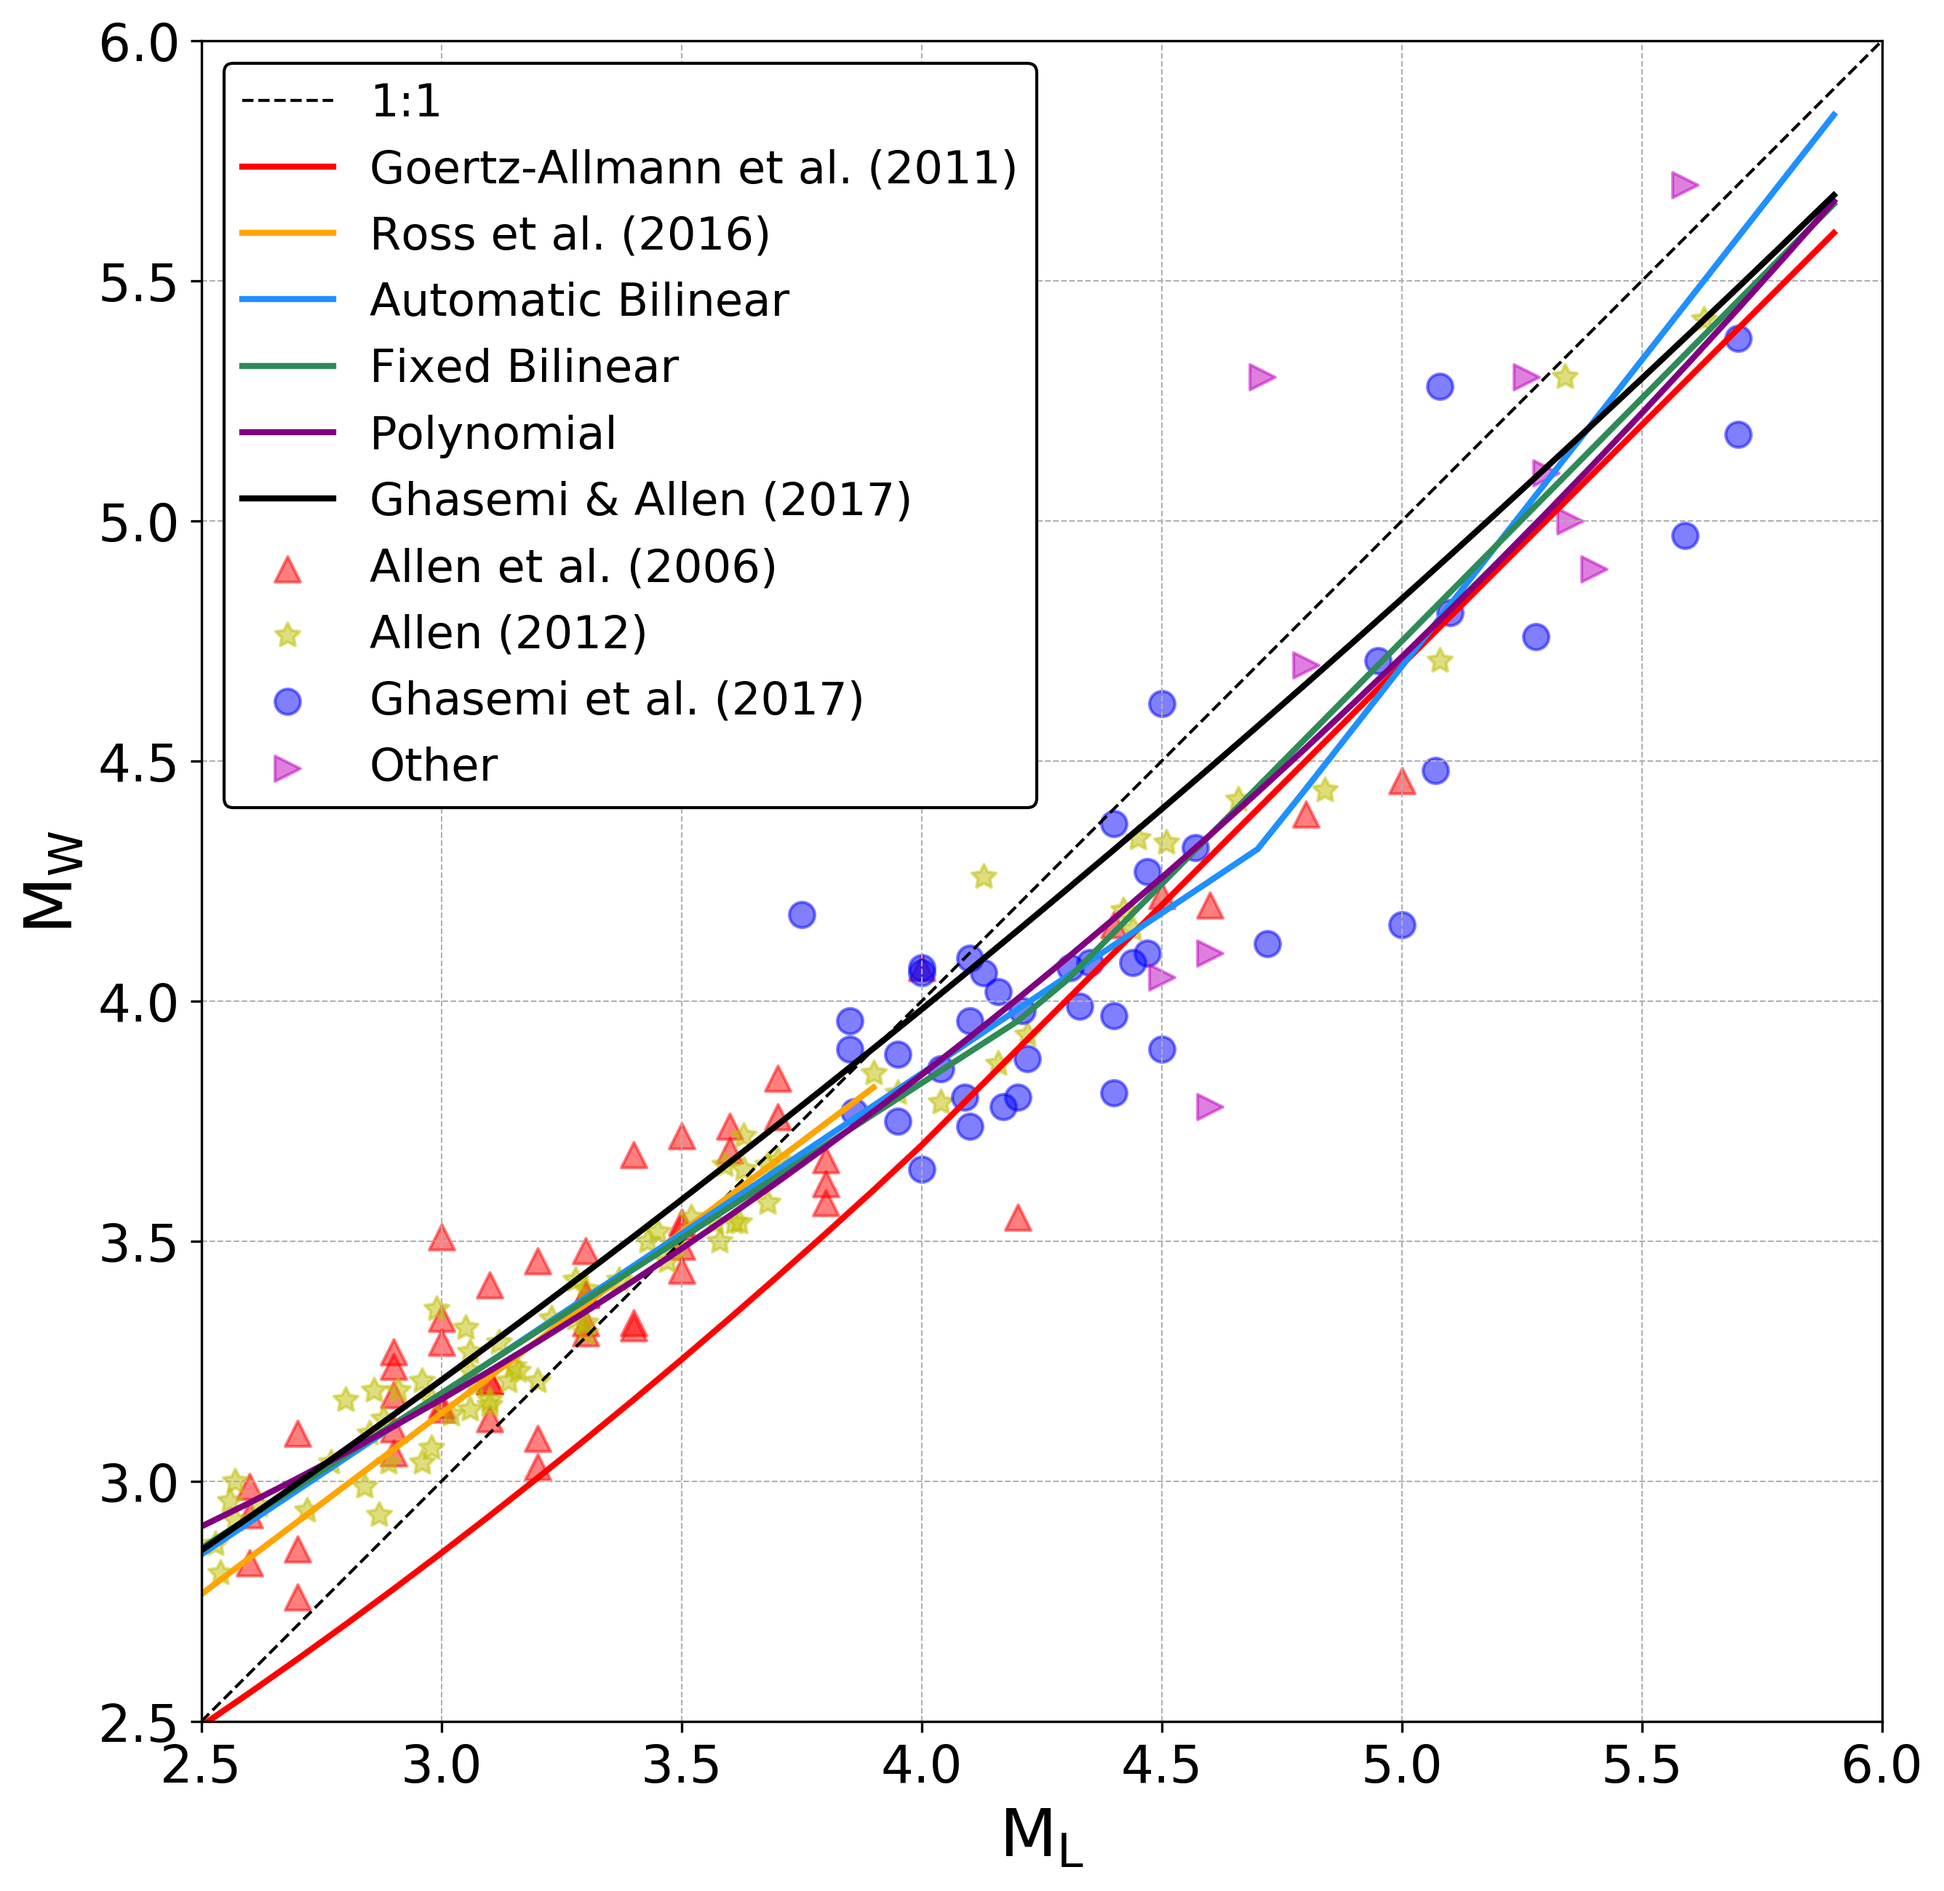
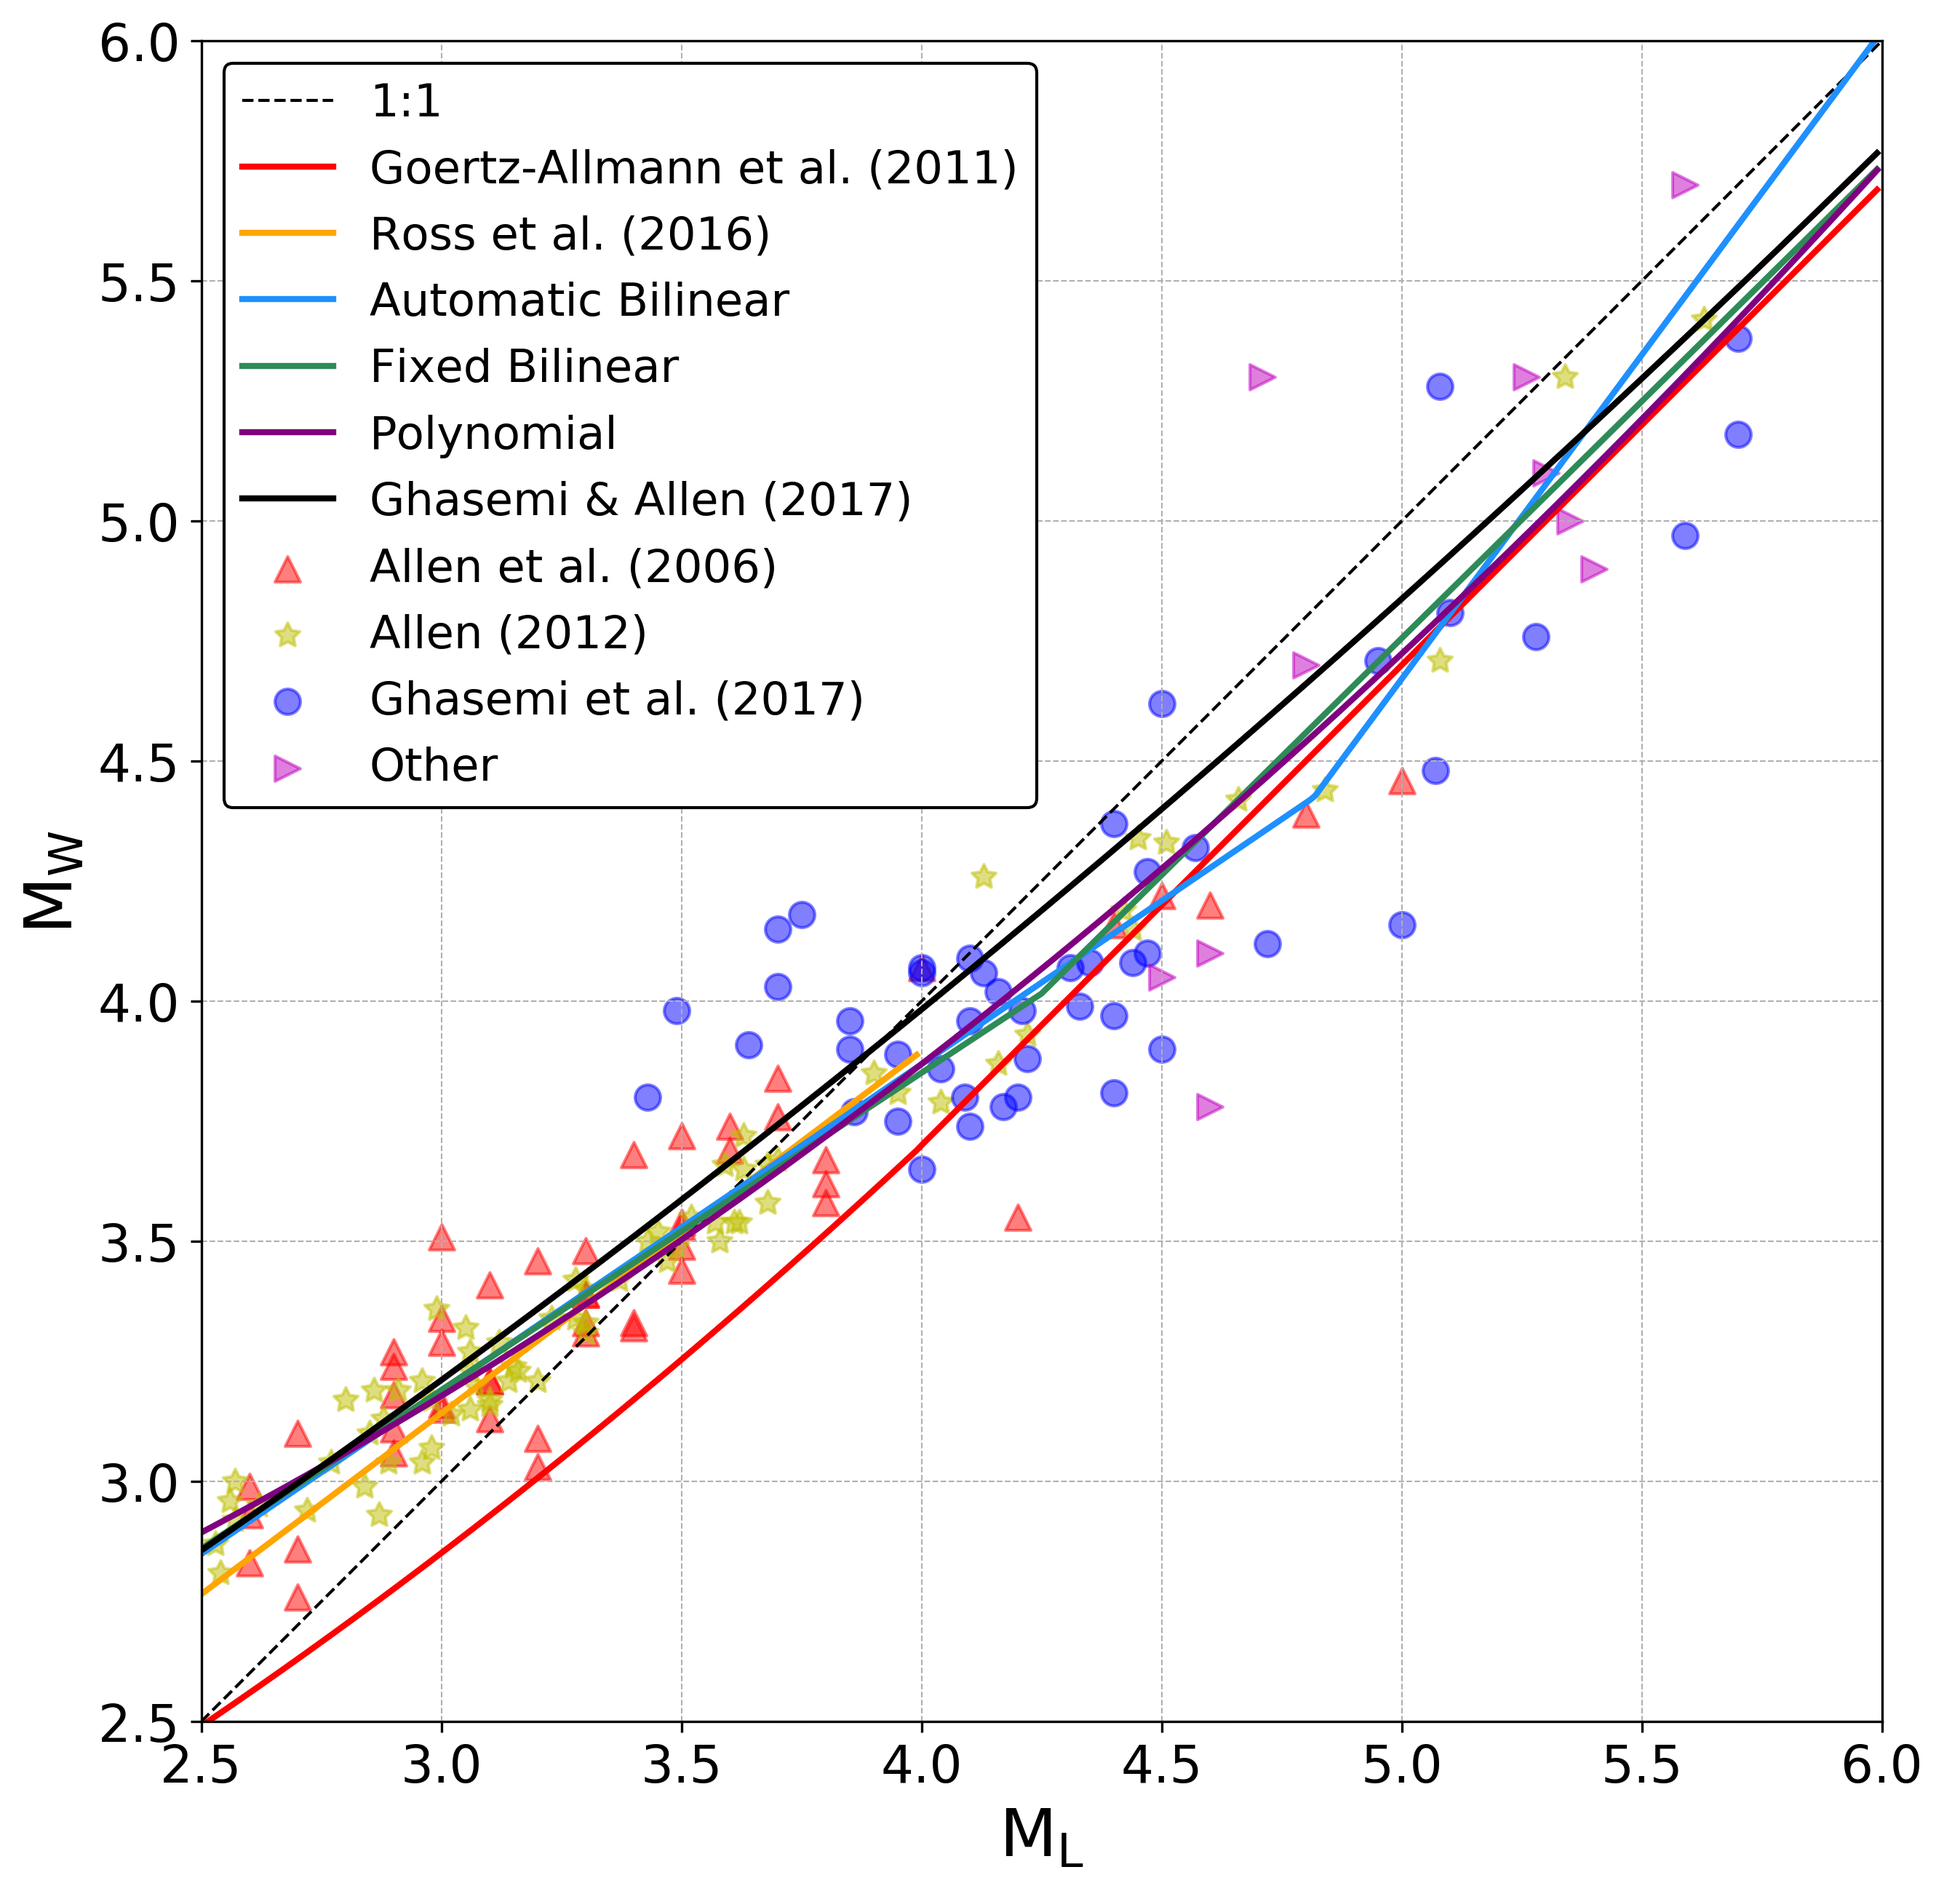
updating ml2mw code

diff --git a/catalogue/magnitude/conversions/regress_ml2mw.py b/catalogue/magnitude/conversions/regress_ml2mw.py
@@ -96,11 +96,13 @@ mwref = np.array(mwref)
 idx_src = np.array(idx)
 
 # delete events
+'''
 didx = np.where((ml < 3.75) & (mwref=='Ghasemi et al (2016)'))[0]
 ml = np.delete(ml, didx)
 mw = np.delete(mw, didx)
 mwref = np.delete(mwref, didx)
 
+'''
 didx = np.where(mw > 6.)[0]
 #print ml[didx]
 ml = np.delete(ml, didx)
@@ -134,7 +136,7 @@ for i, mr in enumerate(mwref):
 #data = odrpack.RealData(ml, mw)
 data = odrpack.RealData(ml, mw)
 
-xrng = np.arange(1.5,6.0,step=0.1)
+xrng = np.arange(1.5,6.0,step=0.01)
 
 bilin_reg = odrpack.Model(bilinear_reg_free)
 odr = odrpack.ODR(data, bilin_reg, beta0=[0.7, 1.0, 1.0, 3.5])
